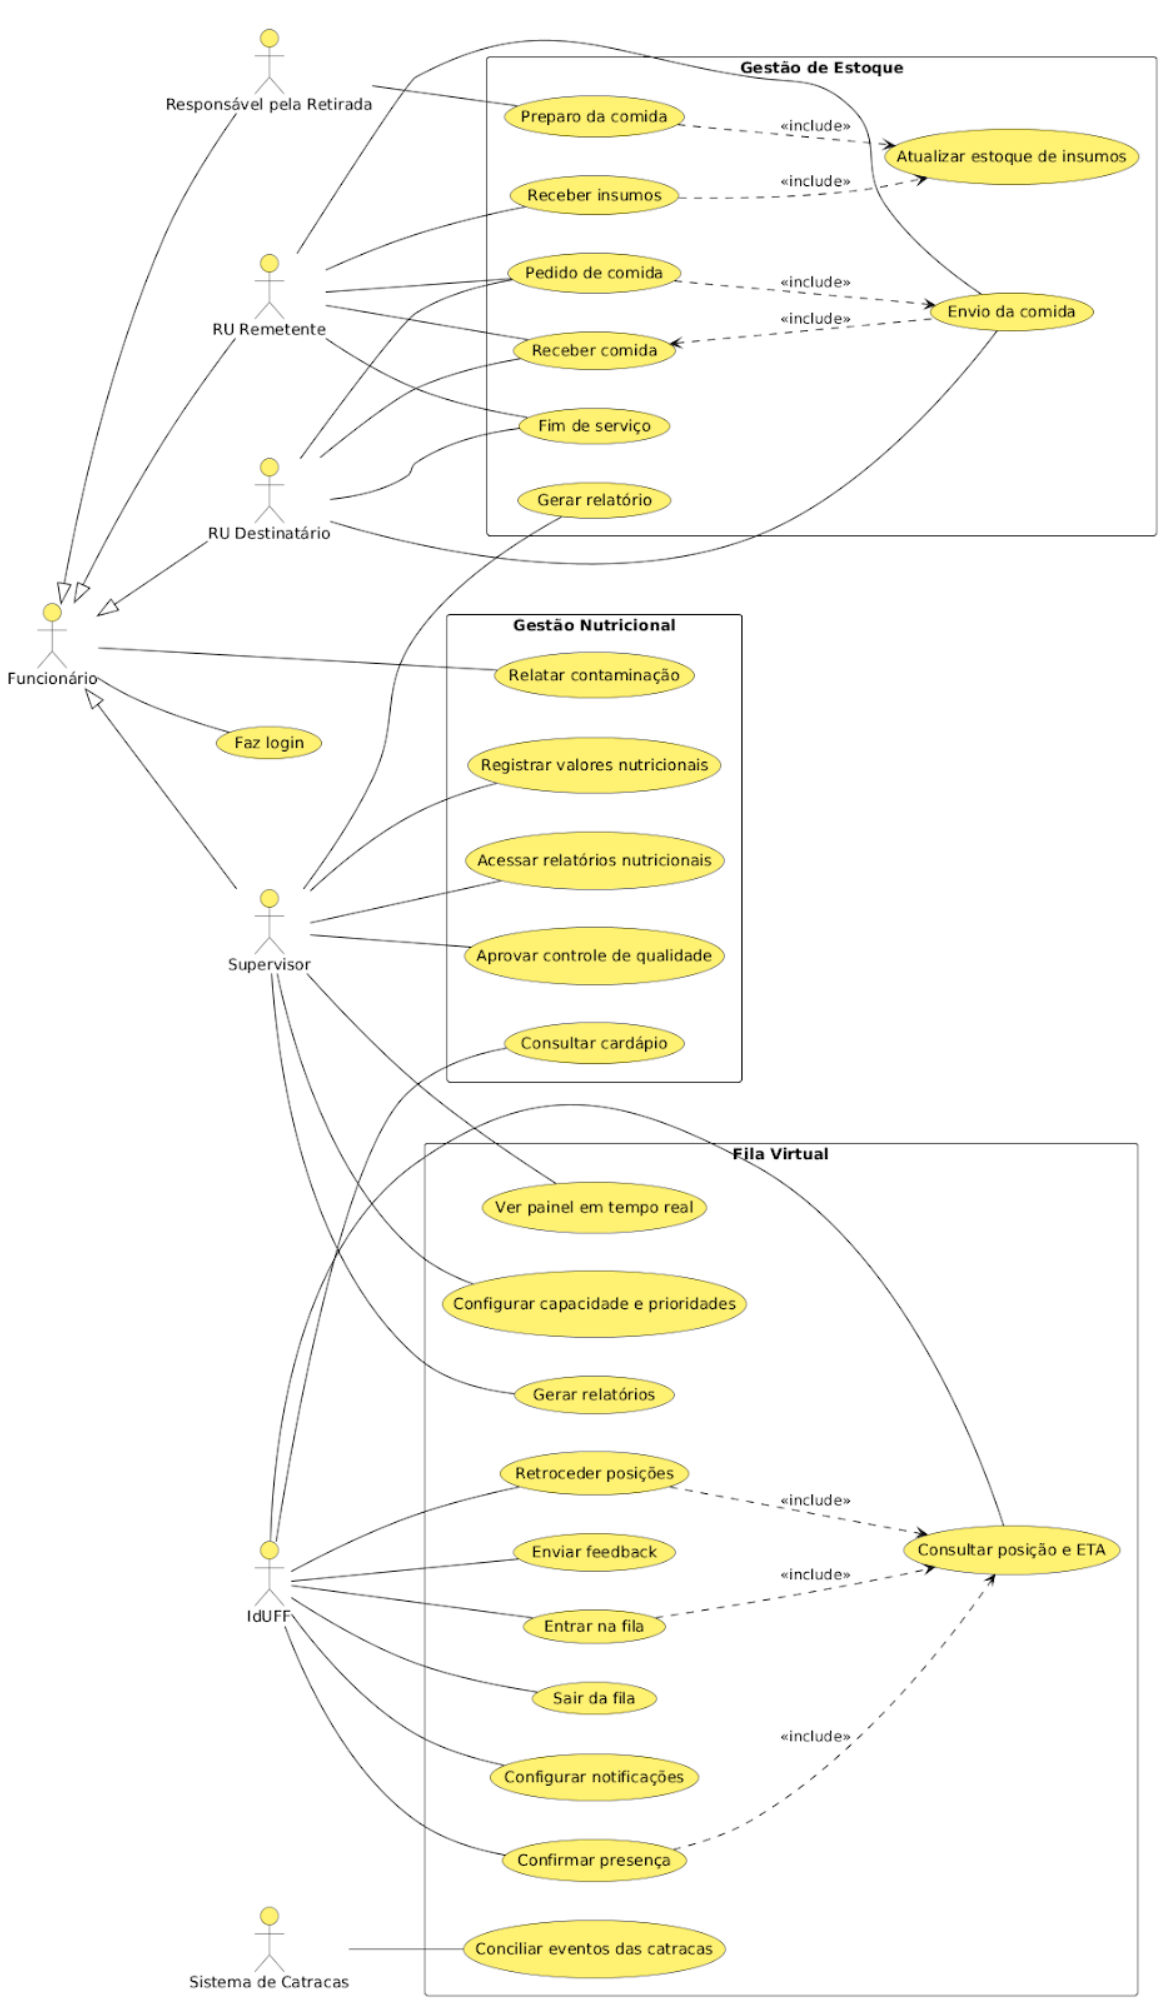
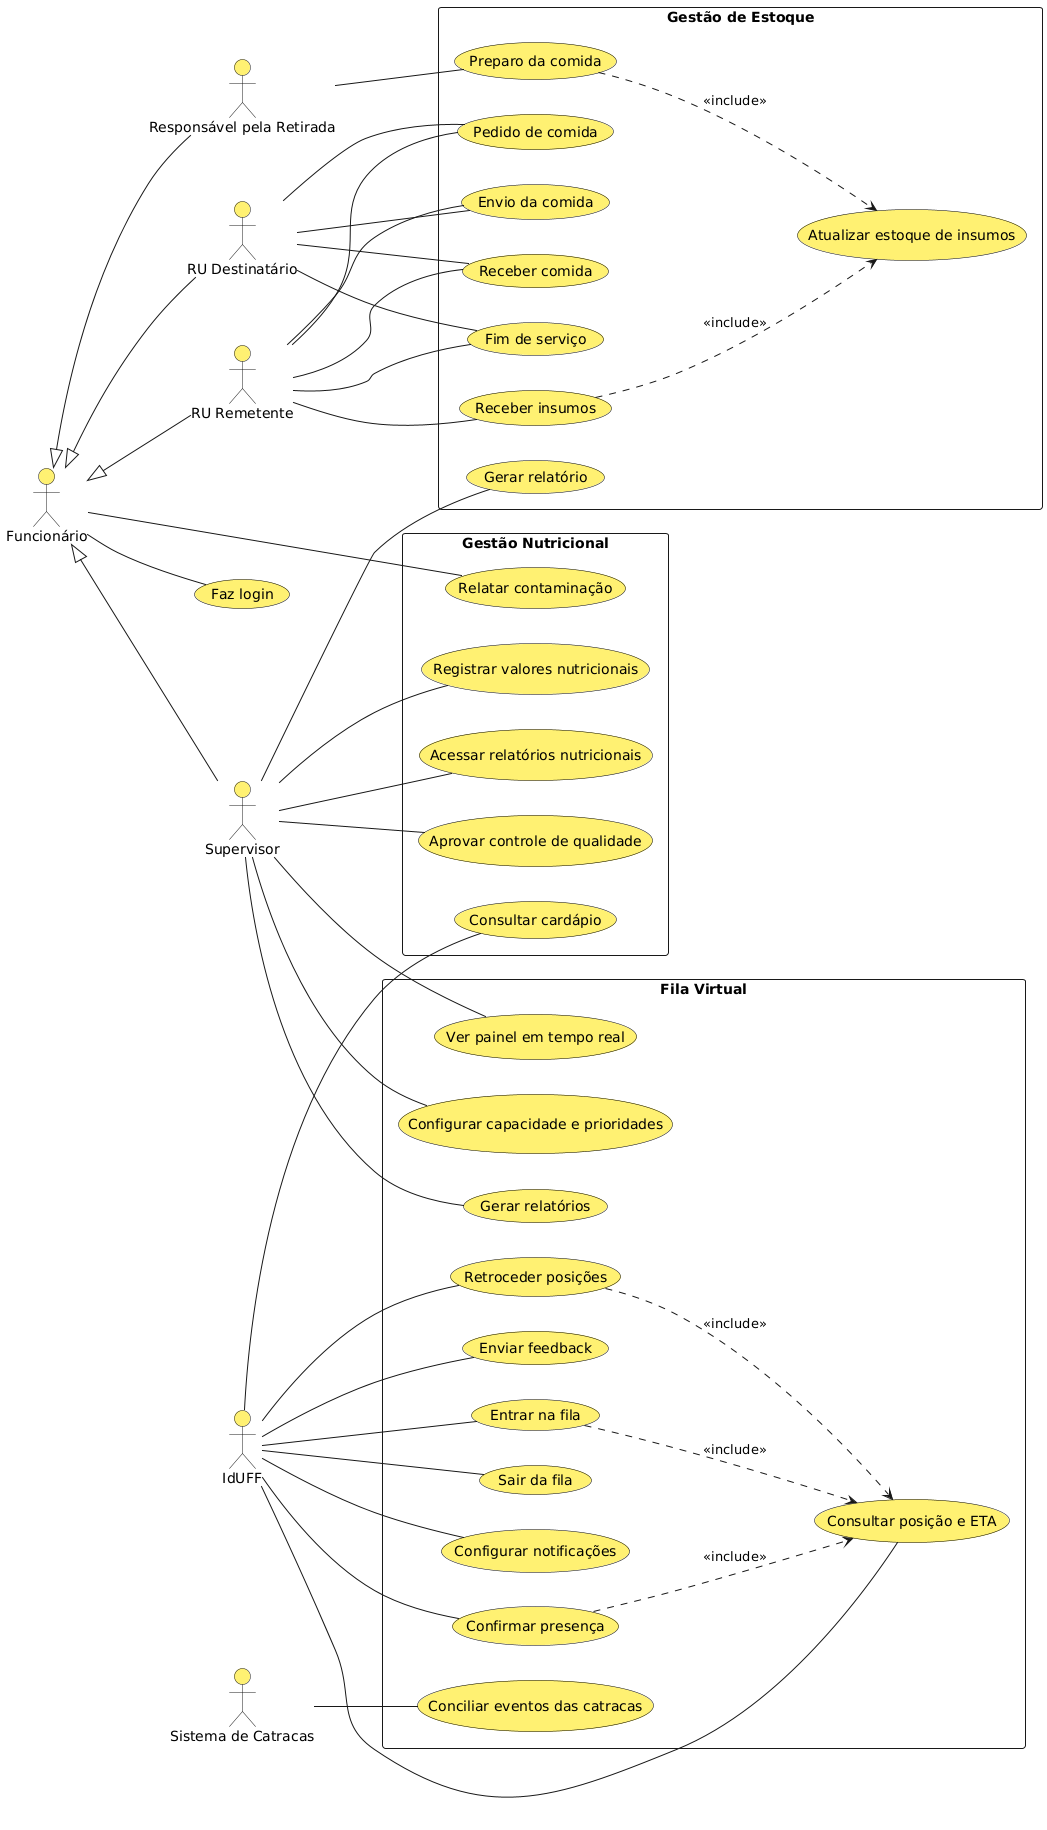
Correcao do diagrama geral(tirando os includes como fluxograma) e adição de se~

diff --git a/main.tex b/main.tex
@@ -11,41 +11,61 @@
 \usepackage{setspace}         % Espaçamento
 \usepackage{enumitem}         % Personalização de listas
 \usepackage{graphicx}         % Para inserir imagens
+\usepackage{titlesec}         % Formatação de títulos
 
 % --------------------
 % Configurações
 % --------------------
 \geometry{a4paper, margin=2.5cm}
-\setstretch{1.2} % Espaçamento 1.5
+\setstretch{1.3} % Espaçamento melhorado
 \hypersetup{
     colorlinks=true,
-    linkcolor=blue,
+    linkcolor=black,
     urlcolor=blue,
-    citecolor=blue
+    citecolor=blue,
+    bookmarks=true,
+    bookmarksopen=true,
+    pdfstartview=FitH
 }
-\setlist{nosep} % Listas mais compactas
+
+% Configurações de listas
+\setlist{itemsep=0.5em, parsep=0pt, topsep=0.5em}
+\setlist[enumerate,1]{itemsep=0.8em}
+\setlist[itemize,1]{itemsep=0.5em}
+
+% Configurações de seções
+\usepackage{titlesec}
+\titlespacing*{\section}{0pt}{3ex plus 1ex minus .2ex}{2.3ex plus .2ex}
+\titlespacing*{\subsection}{0pt}{2.5ex plus 1ex minus .2ex}{1.5ex plus .2ex}
+\titlespacing*{\subsubsection}{0pt}{2ex plus 1ex minus .2ex}{1ex plus .2ex}
 
 % --------------------
 % Início do documento
 % --------------------
 \begin{document}
 
-\title{Projeto de Engenharia de Software \\ \large Sistema de Gestão dos Restaurantes Universitários da UFF}
+\title{
+    \textbf{Projeto de Engenharia de Software} \\[0.5em]
+    \large Sistema de Gestão dos Restaurantes Universitários da UFF \\[0.3em]
+    \normalsize SG-RU/UFF
+}
 \author{
-    Aluno 1 \\ 
-    Aluno 2 \\ 
-    Aluno 3 \\ 
-    Aluno 4 \\ 
-    Aluno 5 \\ 
-    Aluno 6 \\ 
-    Aluno 7 \\ 
-    Aluno 8 \\ 
-    Aluno 9
+    José Enrique Viana de Oliveira \\
+    Rafael Rocha Damasceno Ferreira \\
+    Eduardo Rottschaefer Oliveira \\
+    Alessandro Felipe Ferreira Filho \\ 
+    Felipe Cabral Liporage \\
+    Allan Vignoli dos Santos \\
+    João Victor Machado Sperle \\
+    João Vitor Pereira Rodrigues\\
+    Vinícius Barreto Pinheiro\\
 }
 \date{\today}
 
 \maketitle
+\thispagestyle{empty}
 
+\newpage
 \tableofcontents
 \newpage
 
@@ -56,8 +76,6 @@
 
 \subsection{Nome provisório do projeto}
 Sistema de Gestão dos Restaurantes Universitários da UFF (SG-RU/UFF).
-
-
 
 \subsection{Descrição}
 Desenvolver e operar um sistema integrado para os Restaurantes Universitários (RUs) da UFF em Niterói que gerencie:
@@ -72,6 +90,7 @@ O sistema terá interfaces para perfis administrativos e será acessível aos us
 % --------------------
 % Seção: Requisitos Funcionais
 % --------------------
+\newpage
 \section{Requisitos Funcionais}
 
 \subsection{Requisitos Gerais}
@@ -132,7 +151,7 @@ O sistema terá interfaces para perfis administrativos e será acessível aos us
     \item O sistema deve permitir que o administrador consulte o prazo de validade de cada ingrediente.
 \end{enumerate}
 
-\subsection{Requisitos de Receitas e Nutrição}
+\subsection{Requisitos de Nutrição e Qualidade}
 \begin{enumerate}[label=\textbf{RF-NUT-\arabic*}, leftmargin=*, align=left]
     \item O sistema deve conter um processo de aprovação do controle de qualidade dos alimentos.
     \item O sistema deve exibir ao usuário o cardápio do dia.
@@ -164,7 +183,7 @@ O sistema terá interfaces para perfis administrativos e será acessível aos us
     \item O sistema deve proteger dados sensíveis (como custos e fornecedores) por meio de autenticação e controle de permissões baseado em papéis (RBAC).
 \end{enumerate}
 
-\subsection{Requisitos de Receitas e Nutrição}
+\subsection{Requisitos de Nutrição e Qualidade}
 \begin{enumerate}[label=\textbf{RNF-NUT-\arabic*}, leftmargin=*, align=left]
     \item O sistema deve exibir o cardápio e as informações nutricionais em até 2 segundos após a solicitação.
     \item As avaliações de usuários sobre qualidade da refeição devem ser armazenadas de forma segura, protegidas contra acesso não autorizado.
@@ -177,7 +196,7 @@ O sistema terá interfaces para perfis administrativos e será acessível aos us
 
 \end{enumerate}
 
-
+\newpage
 \section{Casos de Uso}
 
 \subsection{Fila}
@@ -569,7 +588,7 @@ O sistema terá interfaces para perfis administrativos e será acessível aos us
     \item O sistema chama UC-ESTOQUE-07 (Atualizar estoque de insumos).
 \end{enumerate}
 
-\subsection{Receitas e Nutrição}
+\subsection{Nutrição e Qualidade}
 
 \subsubsection{UC-NUTRI-01 — Aprovação do controle de qualidade}
 \textbf{Atores:} Administrador.  
@@ -676,7 +695,7 @@ O sistema terá interfaces para perfis administrativos e será acessível aos us
 
 \subsection{Diagrama Geral de Casos de Uso}
 
-A Figura~\ref{fig:diagrama_geral} apresenta a visão geral do sistema, mostrando todos os atores e casos de uso principais dos três módulos integrados: Fila Virtual, Estoque e Receitas/Nutrição.
+A Figura~\ref{fig:diagrama_geral} apresenta a visão geral do sistema, mostrando todos os atores e casos de uso principais dos três módulos integrados: Fila Virtual, Estoque e Nutrição/Qualidade.
 
 \begin{figure}[htbp]
     \centering
@@ -709,14 +728,24 @@ A Figura~\ref{fig:diagrama_estoque} apresenta os casos de uso do módulo de gest
     \label{fig:diagrama_estoque}
 \end{figure}
 
-\subsubsection{Módulo Receitas e Nutrição}
+\subsubsection{Módulo Nutrição e Qualidade}
 A Figura~\ref{fig:diagrama_nutricao} ilustra os casos de uso relacionados à gestão nutricional.
 
 \begin{figure}[htbp]
     \centering
     \includegraphics[width=0.8\textwidth]{diagramas/diagrama-nutricao.png}
-    \caption{Diagrama de casos de uso - Módulo Receitas e Nutrição}
+    \caption{Diagrama de casos de uso - Módulo Nutrição e Qualidade}
     \label{fig:diagrama_nutricao}
 \end{figure}
+
+\newpage
+\section{A melhorar}
+
+
+Durante o desenvolvimento deste projeto, foi apontada pelo professor uma questão importante relacionada à distinção entre diagramas de casos de uso e fluxogramas de processo. 
+
+Os relacionamentos de \textbf{inclusão} (\texttt{<<include>>}) nos diagramas de casos de uso \textbf{não representam sequência temporal} ou fluxo de execução, como seria o caso em um fluxograma. O relacionamento de inclusão indica que um caso de uso base sempre incorpora o comportamento de um caso de uso incluído, mas isso não define uma ordem específica de execução e foi nesse ponto que erramos ao construir os casos de uso para o módulo de estoque. 
+
+É possível que ainda existam erros dessa natureza no trabalho, uma revisão conceitual seguida da revisão deste trabalho se faz necessária.
 
 \end{document}
